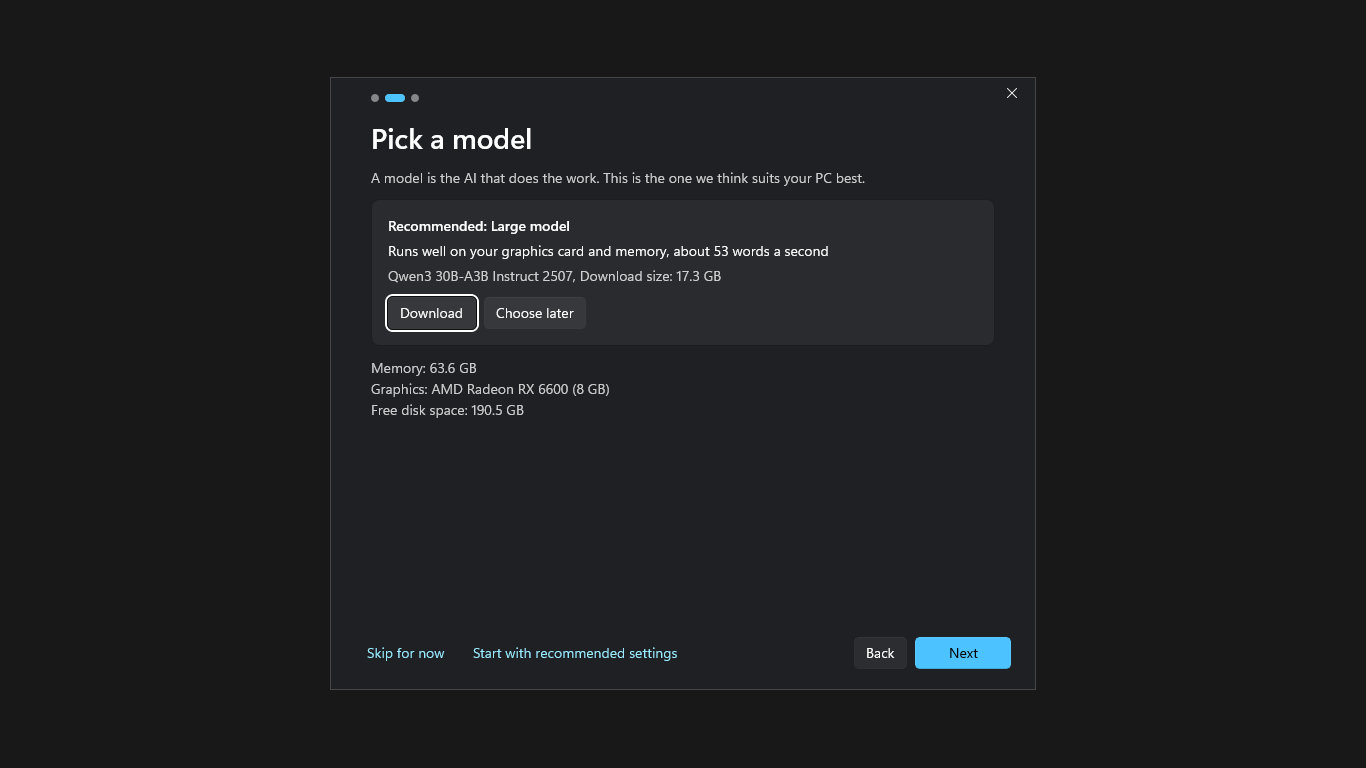
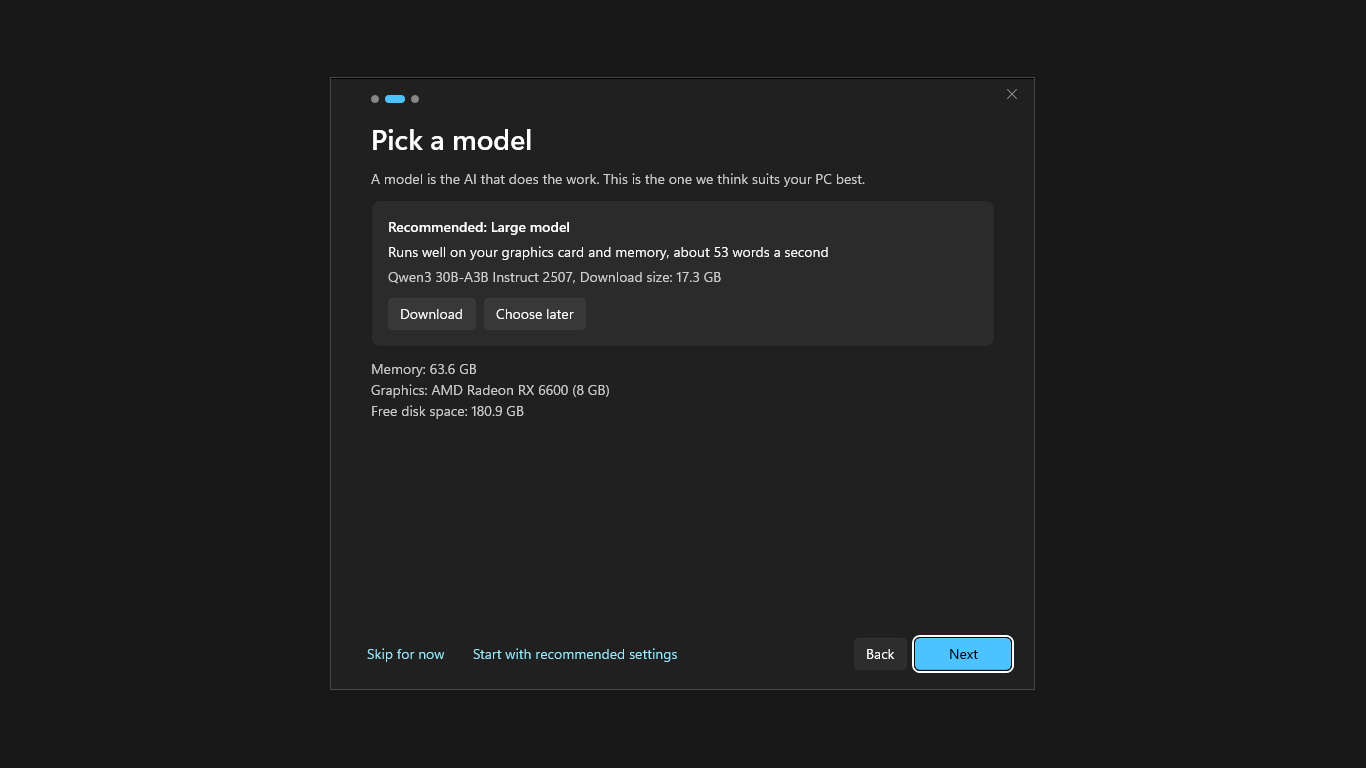
Store screenshots for 1.0.1: Home, Try it, Models, access prompt; refocus step 2; captions

diff --git a/docs/store/screenshots.md b/docs/store/screenshots.md
@@ -9,35 +9,41 @@ Capture after the new look is final. Rules (Store lessons):
   profile on a test PC or VM.
 - Caption each one in Partner Center (up to 200 characters).
 
-## 1.0.1 set (new Welcome window)
+## 1.0.1 set
 
-Real captures of this build, real hardware detection (no `--fake`), a fresh test data root, no personal paths.
-Files are in `docs/store/screenshots/1.0.1/`; each has a `-dark` copy. Captions are up to 200 characters.
+Real captures of this build, real hardware detection and a real model answering (no `--fake`), fresh test data
+roots, no personal paths. Files are in `docs/store/screenshots/1.0.1/`; each has a `-dark` copy. Captions are up
+to 200 characters. Images 1 to 3 are the Welcome window centred on a neutral 1366x768 canvas; images 4 to 7 are the
+main window at exactly 1366x768 (host version 1.0.1, a small test model loaded).
 
 | # | File | What it shows | Caption |
 |---|---|---|---|
-| 1 | `01-welcome.png` | Welcome step 1: "Runs on this PC", "Stays private", "Made for your Portal apps" | Welcome to Portal AI Host: AI that runs on your own PC. It picks a model to suit it, and there is nothing to set up. |
+| 1 | `01-welcome.png` | Welcome step 1: "Runs on this PC", "Stays private", "Made for your Portal apps" | Welcome to Portal AI Host: AI that runs on your own PC. It picks a model to suit it and you're ready in a few clicks. |
 | 2 | `02-pick-a-model.png` | Welcome step 2, "Pick a model": the recommended model for this PC with its reason, size and your PC's memory, graphics and free disk space | It checks your PC and recommends the model that suits it best, with the size and how fast it should answer. Download it now or choose later. |
 | 3 | `03-where-it-lives.png` | Welcome step 3: where it lives in the tray, the "you will be asked" note and the Start with Windows switch | It waits quietly in the tray and always asks before a Portal app can use it. Starting with Windows is your choice. |
+| 4 | `04-home.png` | Home: status "Ready", host version 1.0.1, the active model loaded, no apps connected yet, no requests waiting | Home shows at a glance that your AI model is loaded and ready, which model is in use, and whether any apps are waiting for your say-so. |
+| 5 | `05-try-it-answer.png` | Try it after an answer: the question, and the reply with its key word shown in bold; "Nothing you type here is saved" | Check that it works: ask something short and read the reply here. Nothing you type in Try it is saved. |
+| 6 | `06-models.png` | Models: the list for this PC, the best choice marked, size, speed and quality for each, a Download button, and the "A better model is available" note | Models lists what suits your PC, with size, speed and quality. The best choice is marked, and you are told when a better model is available. |
+| 7 | `07-approval-prompt.png` | The access prompt over Home: who is asking, the reason given, the verified publisher line, and Allow / Don't allow / Decide later | Apps have to ask first. You see who is asking and why, and you choose Allow, Don't allow or Decide later. |
 
-Still to capture for 1.0.1 (needs a loaded model or a paired app, so not possible without a model download):
-Home with a model ready, Try it (the answer now shows bold text properly), the approval prompt ("Don't allow"
-instead of "Deny") and Models with a download in progress. Until then the 1.0 images for those pages stay in
-Partner Center; do not reuse them in new rows, as they show host version 1.0.0 and raw `**` markdown.
+Notes for Partner Center:
+- The prompt in image 7 comes from a real request made by PowerShell, so it shows a real verified publisher.
+- Settings is not recaptured: its page, text and layout are unchanged since 1.0, so the 1.0 Settings image is
+  still accurate for 1.0.1. A new capture from an unpackaged test build would show a test folder path and the
+  "only available in the installed app" note, which the Store build does not have.
+- The 1.0 images of Home, Try it and the prompt show host version 1.0.0 and "Deny"; use the 1.0.1 images above
+  instead.
 
 ## Plan for a full set
 
-Original plan, with the changes for 1.0.1 (welcome is 3 steps, not "2 of 3"/"2 of 4"; the prompt button is
-"Don't allow"):
+The 1.0.1 set above covers the plan except the items below. Welcome is 3 steps and the prompt button is
+"Don't allow".
 
-| # | Page / state | What it must show | Caption |
-|---|---|---|---|
-| 1 | Home, model loaded | Status "ready", the loaded model's name, one or two allowed apps, queue empty | Your own AI model, ready for your apps |
-| 2 | Welcome window, step 2 (Pick a model) | Recommended model with its plain reason and size | Picks the best model for your PC |
-| 3 | Models, a download in progress | Recommended model, catalogue list with sizes and quality, progress with time left, pause button | One-click download with pause and resume |
-| 4 | Devices and apps, approval prompt open | "Let Voice Portal use your AI host?" with the verified publisher line, Allow / Don't allow / Decide later | Apps ask first; you decide |
-| 5 | Try it, after an answer | A short question and the model's reply; "nothing you type here is saved" visible | Check it works; nothing is saved |
-| 6 | Settings | Start with Windows, free memory when idle, models folder | Starts with Windows only if you want it |
+| Page / state | What it must show | Status |
+|---|---|---|
+| Models, a download in progress | Recommended model, list with sizes and quality, progress with time left, pause button | Not captured: needs a real download of a large model |
+| Devices and apps with one or two allowed apps | App names, last used, Revoke | Not captured |
+| Settings | Start with Windows, free memory when idle, models folder | Reuse the 1.0 image (see notes above) |
 
-Optional 7th: the tray icon menu (Open / Quit) cropped with the window behind it, only if it can be captured without
+Optional extra: the tray icon menu (Open / Quit) cropped with the window behind it, only if it can be captured without
 other tray icons.
